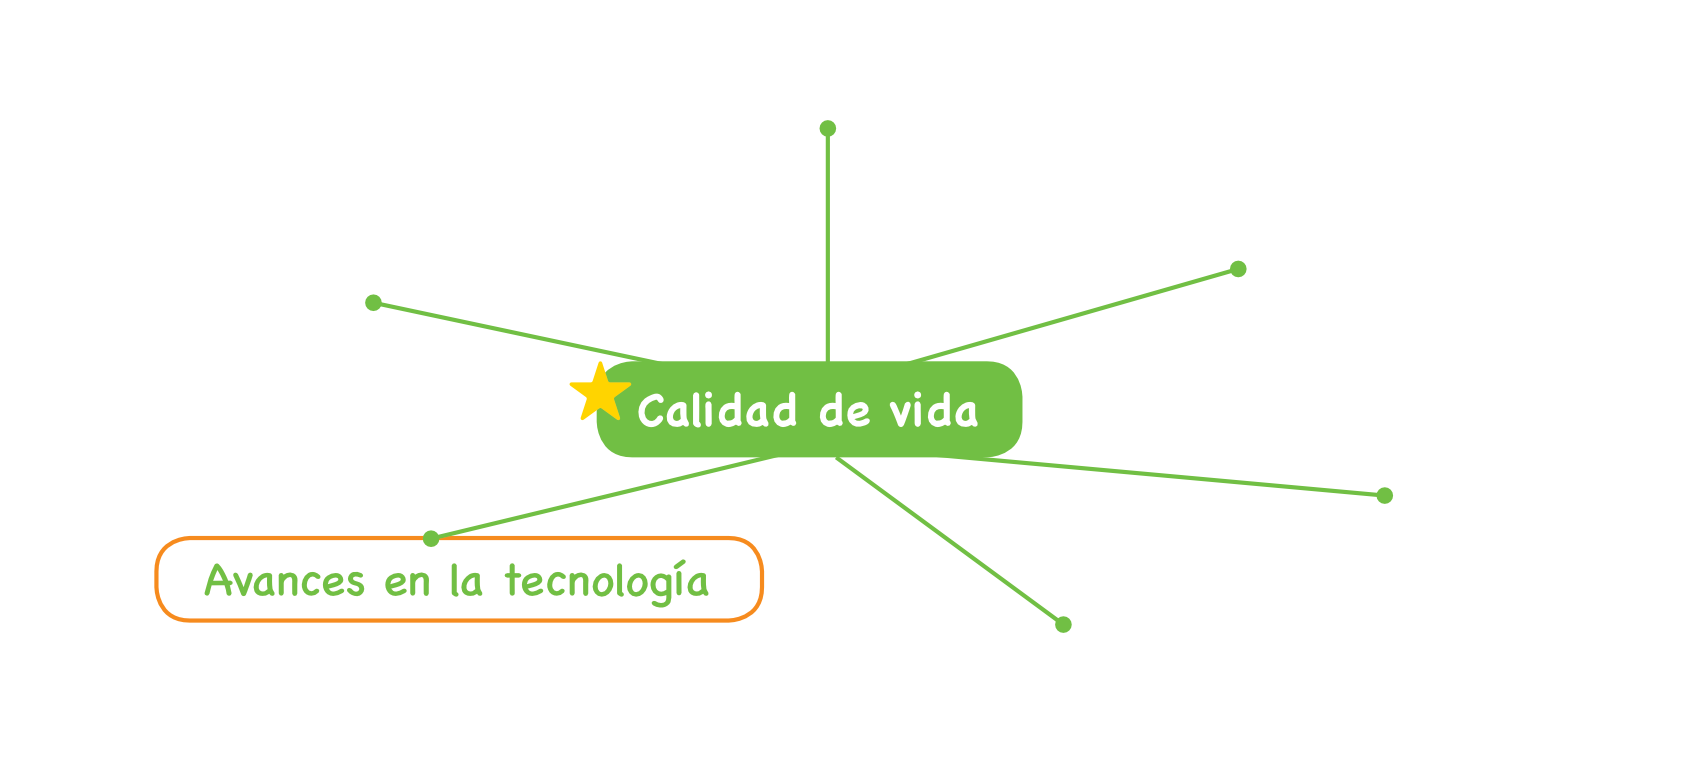
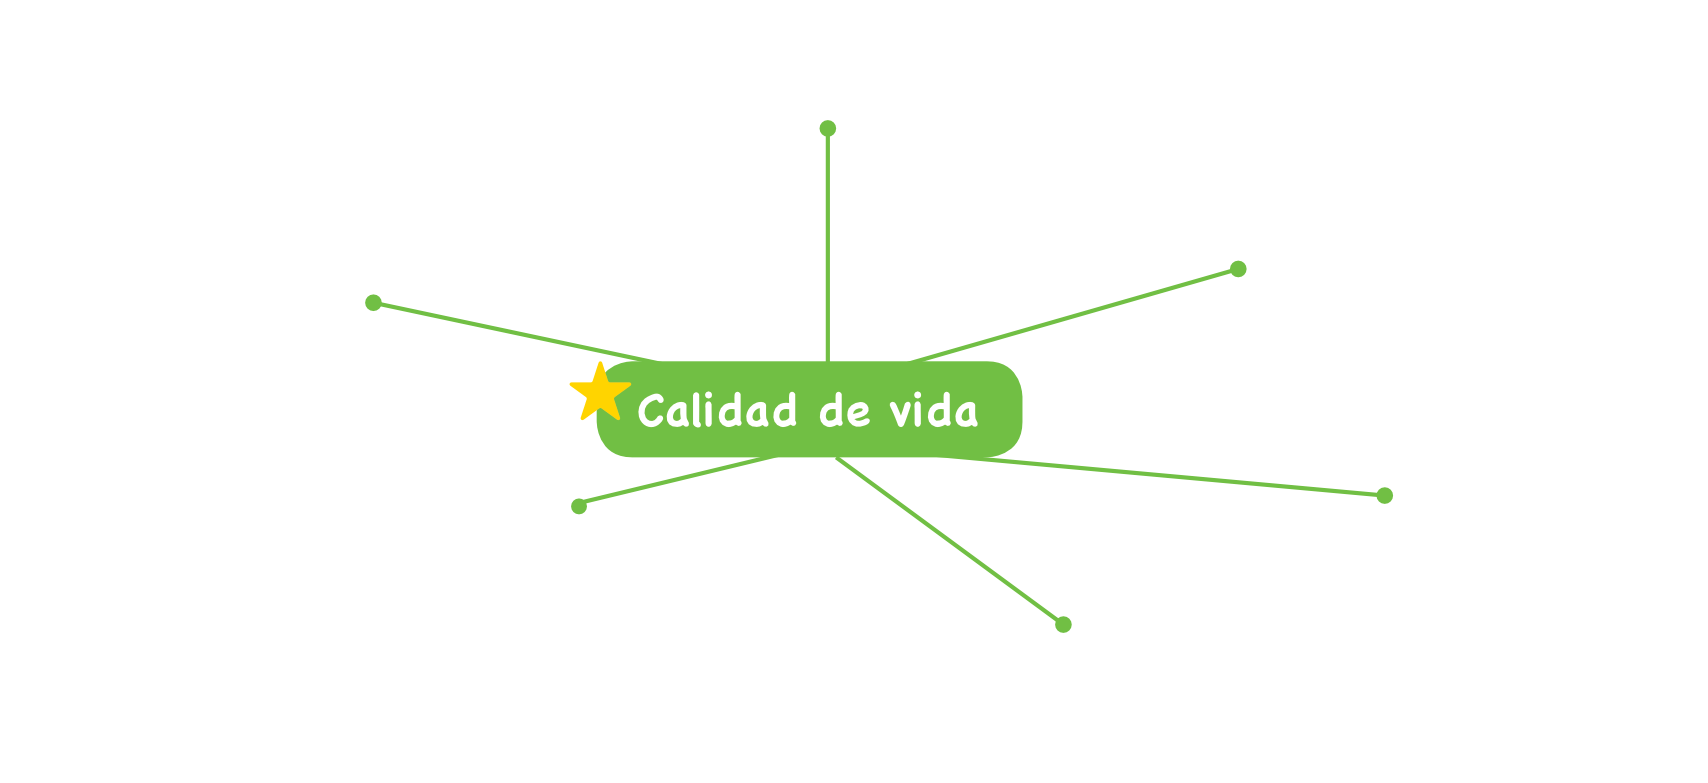
fix

Changed region(s): [[0.0931, 0.6437, 0.4655, 0.7969]]

diff --git a/GE6T3/232/index.html b/GE6T3/232/index.html
@@ -39,6 +39,11 @@
           top: 82%;
       }
       
+      .imagerelative .items > .dragdrop:nth-child(6) {
+          left: 30%;
+          top: 66%;
+      }
+      
     </style>
   </head>
   <body>
@@ -95,7 +100,7 @@
     <script src="../../assets/modulos/utils.js"></script>
     <script src="../../assets/assets.js"></script>
     <script>
-      app.$set(app.tempsobj, 'a', ['Culturales', 'Educativos', 'Económicos', 'Políticos', 'Avances en la ciencia'])
+      app.$set(app.tempsobj, 'a', ['Culturales', 'Educativos', 'Económicos', 'Políticos', 'Avances en la ciencia', 'Avances de la tecnología'])
       app.$set(app.tempsobj, 'TorF', [
           {v:'V', t:'Una nación será más rica si sus habitantes son más capaces, productivos y creativos.'},
           {v:'F', t:'Contar con servicios básicos como educación y salud no es determinante para mejorar la calidad de vida de los habitantes de un país.'},
